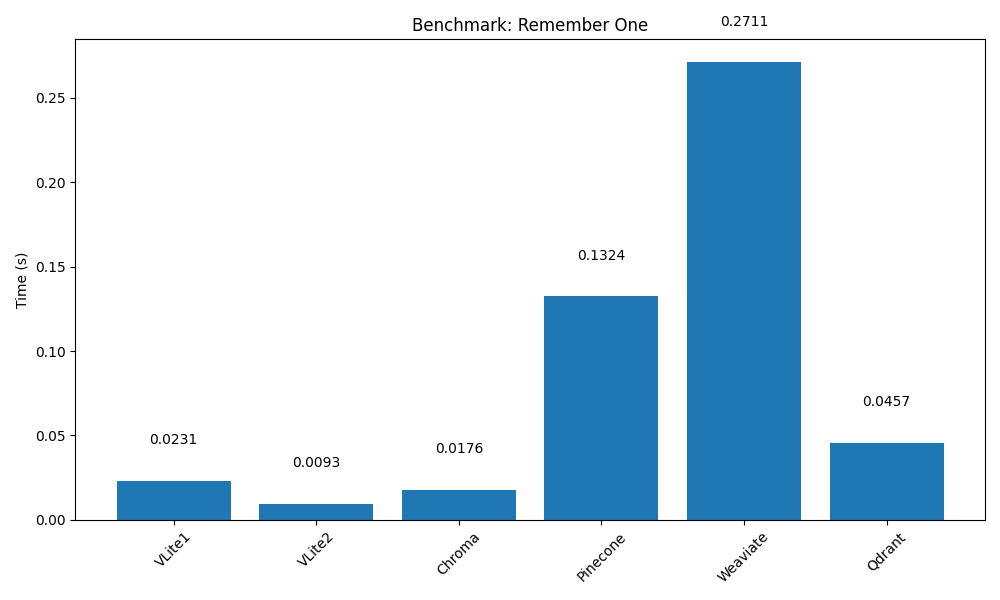
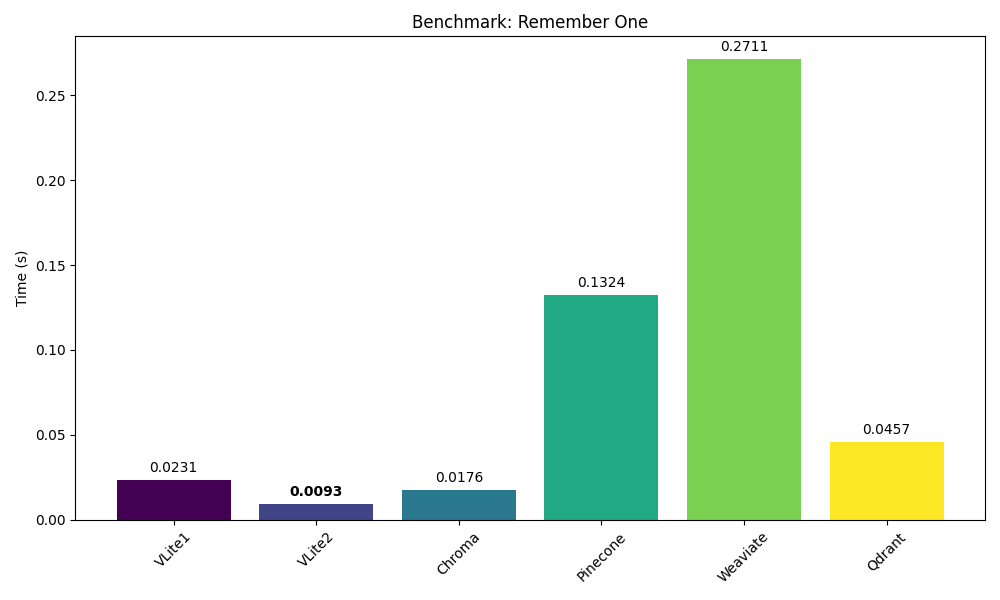
better graphing

diff --git a/graphs.py b/graphs.py
@@ -11,10 +11,18 @@ for i, (idx, row) in enumerate(data.iterrows()):
     categories = data.columns[1:]
     x = np.arange(len(values))
     
-    bars = ax.bar(x, values)
+    colors = plt.cm.viridis(np.linspace(0, 1, len(values)))
     
-    for bar, value in zip(bars, values):
-        ax.text(bar.get_x() + bar.get_width() / 2, bar.get_height() + 0.02,
+    bars = ax.bar(x, values, color=colors)
+    
+    for bar, category, value in zip(bars, categories, values):
+        text_position = bar.get_height() + 0.003
+
+        if category == "VLite2":
+            ax.text(bar.get_x() + bar.get_width() / 2, text_position,
+                f'{value:.4f}', ha='center', va='bottom', fontweight='bold')
+        else:
+            ax.text(bar.get_x() + bar.get_width() / 2, text_position,
                 f'{value:.4f}', ha='center', va='bottom')
     
     ax.set_title(f'Benchmark: {row[0]}')
@@ -24,5 +32,3 @@ for i, (idx, row) in enumerate(data.iterrows()):
     
     plt.tight_layout()
     plt.savefig(f'./results/benchmark_{i+1}_{row[0]}.png')
-
-file_paths = [f'./results/benchmark_{i+1}_{row[0]}.png' for i, row in data.iterrows()]

diff --git a/README.md b/README.md
@@ -12,6 +12,7 @@ Speed and other comparisons, primarily used to test and verify the speed of [Vli
 * Can run each file individually, or run all at once with `all_tests.sh`
 * Configuration for all the test runs found in `config.py`
 * All files output the benchmark results to `benchmark.xlsx`
+* `graphs.py` outputs each benchmark for each db into `/results` as an image
 
 # Comparisons
 NOTE: *Vlite, Vlite2, Chroma, and Qdrant are running locally, Pinecone and Weaviate are running remotely*.
